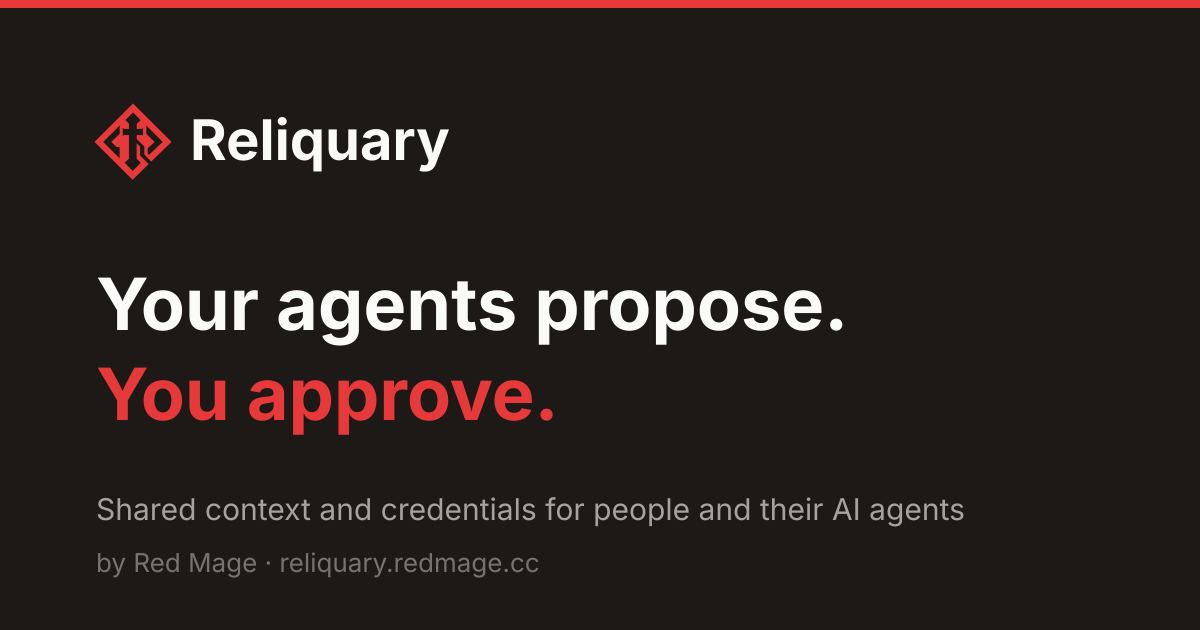
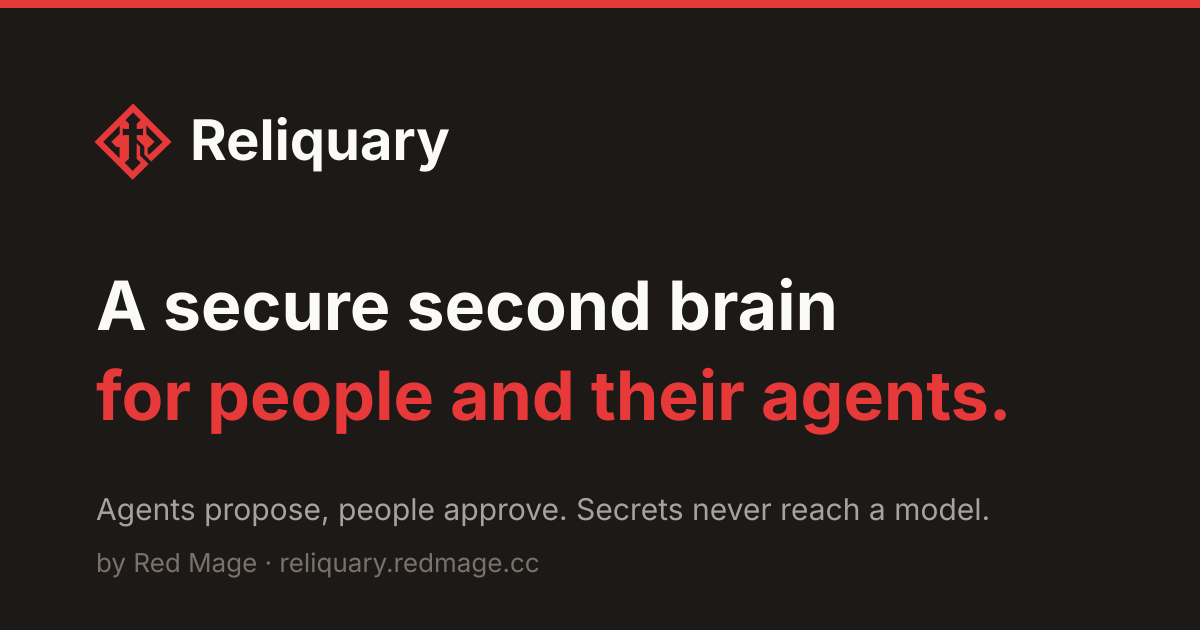
fix(web): the link preview image shows the current tagline
The preview still said "Your agents propose. You approve." and "Shared
context and credentials", from before the landing page moved to "A
secure second brain for people and their agents." The image and its alt
text now match the landing page.

diff --git a/web/src/site.ts b/web/src/site.ts
@@ -149,7 +149,7 @@ ${o.alternate ? html`<link rel="alternate" type="text/markdown" href="${o.altern
 <meta property="og:image" content="${siteOrigin}/og.png">
 <meta property="og:image:width" content="1200">
 <meta property="og:image:height" content="630">
-<meta property="og:image:alt" content="Reliquary. Your agents propose, you approve.">
+<meta property="og:image:alt" content="Reliquary. A secure second brain for people and their agents.">
 <meta name="twitter:card" content="summary_large_image">
 <link rel="icon" href="/favicon.svg" type="image/svg+xml">
 <link rel="apple-touch-icon" href="/apple-touch-icon.png">
